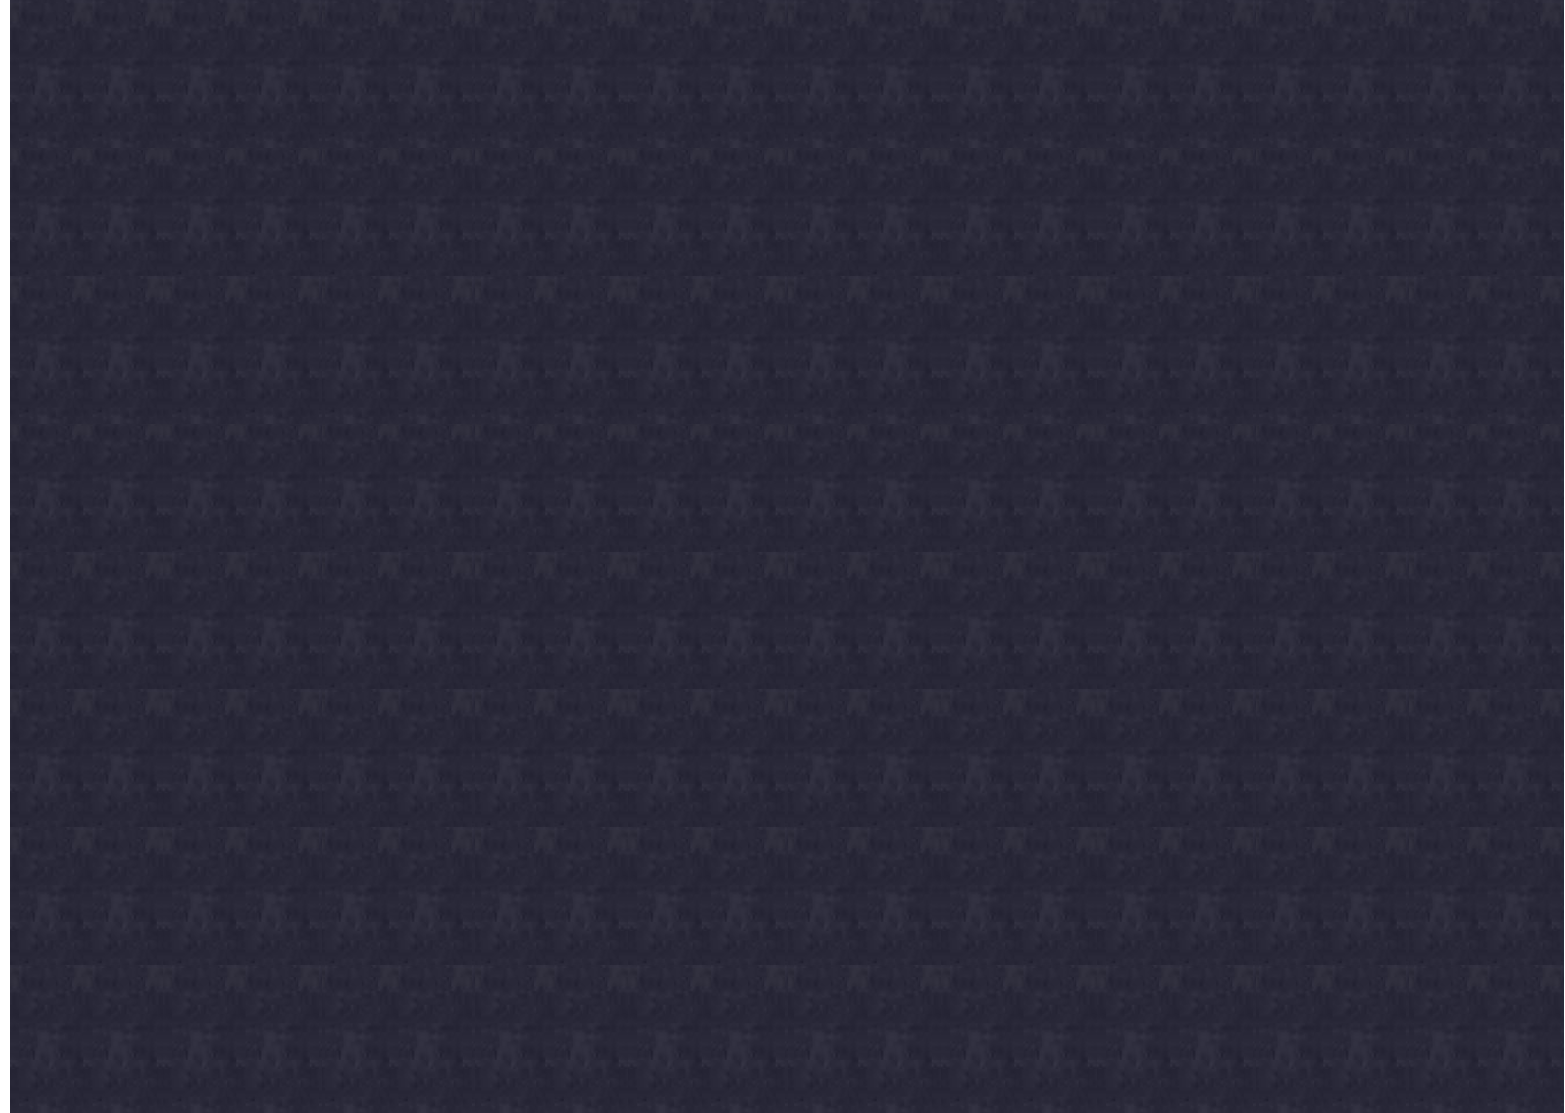
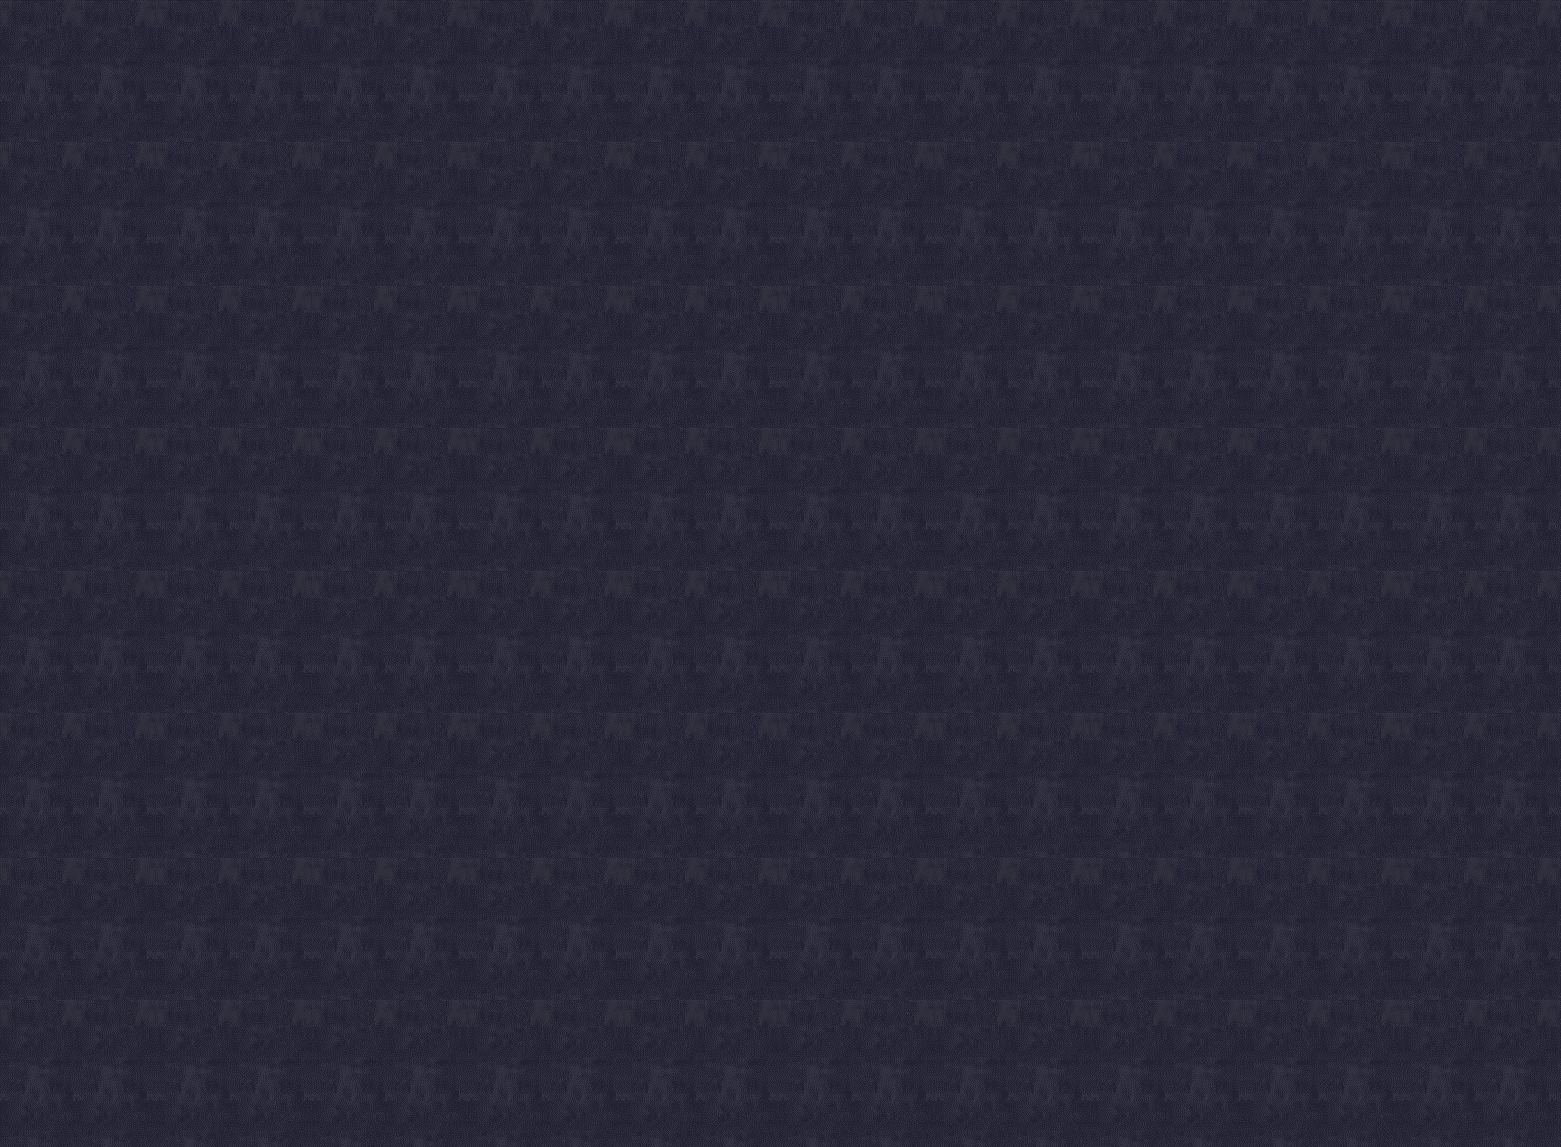
a bit change (not final view)

Changed region(s): [[0.0, 0.0, 0.0307, 1.0]]

diff --git a/C++_final/Label.hpp b/C++_final/Label.hpp
@@ -35,7 +35,7 @@ namespace Engine {
 		/// <param name="a">Color's alpha value.</param>
 		/// <param name="anchorX">The centerX of the object. (0, 0) means top-left, while (1, 0) means top-right.</param>
 		/// <param name="anchorY">The centerY of the object. (0, 1) means bottom-left, while (1, 1) means bottom-right.</param>
-		explicit Label(const std::string& text, const std::string& font, int fontSize, float x, float y, unsigned char r = 0, unsigned char g = 0, unsigned char b = 0, unsigned char a = 255, float anchorX = 0, float anchorY = 0);
+		explicit Label(std::string  text, const std::string& font, int fontSize, float x, float y, unsigned char r = 0, unsigned char g = 0, unsigned char b = 0, unsigned char a = 255, float anchorX = 0, float anchorY = 0);
 		/// <summary>
 		/// Draw text with loaded font.
 		/// </summary>
@@ -54,7 +54,7 @@ namespace Engine {
 		/// Change text color
 		/// </summary>
 		/// <returns>None.</returns>
-		void ChangeColor(const char r, const char g, const char b, const char a);
+		void ChangeColor(char r, char g, char b, char a);
 	};
 }
 

diff --git a/C++_final/Label.cpp b/C++_final/Label.cpp
@@ -1,3 +1,5 @@
+#include <utility>
+
 #include <string>
 #include <memory>
 #include <allegro5/allegro.h>
@@ -8,8 +10,8 @@
 #include "Label.hpp"
 
 namespace Engine {
-	Label::Label(const std::string& text, const std::string& font, int fontSize, float x, float y, unsigned char r, unsigned char g, unsigned char b, unsigned char a, float anchorX, float anchorY) :
-		IObject(x, y, 0, 0, anchorX, anchorY), font(Resources::GetInstance().GetFont(font, fontSize)), Text(text), Color(al_map_rgba(r, g, b, a)) {
+	Label::Label(std::string  text, const std::string& font, int fontSize, float x, float y, unsigned char r, unsigned char g, unsigned char b, unsigned char a, float anchorX, float anchorY) :
+		IObject(x, y, 0, 0, anchorX, anchorY), font(Resources::GetInstance().GetFont(font, fontSize)), Text(std::move(text)), Color(al_map_rgba(r, g, b, a)) {
 	}
 	void Label::Draw() const {
 		al_draw_text(font.get(), Color, Position.x - Anchor.x * GetTextWidth(), Position.y - Anchor.y * GetTextHeight(), 0, Text.c_str());

diff --git a/C++_final/Image.hpp b/C++_final/Image.hpp
@@ -23,7 +23,7 @@ namespace Engine {
 		/// <param name="h">Height of the image, 0 indicates original size.</param>
 		/// <param name="anchorX">The centerX of the object. (0, 0) means top-left, while (1, 0) means top-right.</param>
 		/// <param name="anchorY">The centerY of the object. (0, 1) means bottom-left, while (1, 1) means bottom-right.</param>
-		explicit Image(std::string img, float x, float y, float w = 0, float h = 0, float anchorX = 0, float anchorY = 0);
+		explicit Image(const std::string& img, float x, float y, float w = 0, float h = 0, float anchorX = 0, float anchorY = 0);
 		/// <summary>
 		/// Draw the loaded image.
 		/// </summary>

diff --git a/C++_final/Sprite.hpp b/C++_final/Sprite.hpp
@@ -36,7 +36,7 @@ namespace Engine {
 		/// <param name="g">Color tint green value.</param>
 		/// <param name="b">Color tint blue value.</param>
 		/// <param name="a">Color tint alpha value.</param>
-		explicit Sprite(std::string img, float x, float y, float w = 0, float h = 0, float anchorX = 0.5f, float anchorY = 0.5f,
+		explicit Sprite(const std::string& img, float x, float y, float w = 0, float h = 0, float anchorX = 0.5f, float anchorY = 0.5f,
 			float rotation = 0, float vx = 0, float vy = 0, unsigned char r = 255, unsigned char g = 255, unsigned char b = 255, unsigned char a = 255);
 		/// <summary>
 		/// Draw to window display.

diff --git a/C++_final/Sprite.cpp b/C++_final/Sprite.cpp
@@ -5,7 +5,7 @@
 #include "Sprite.hpp"
 
 namespace Engine {
-	Sprite::Sprite(std::string img, float x, float y, float w, float h, float anchorX, float anchorY,
+	Sprite::Sprite(const std::string& img, float x, float y, float w, float h, float anchorX, float anchorY,
 		float rotation, float vx, float vy, unsigned char r, unsigned char g, unsigned char b, unsigned char a) :
 		Image(img, x, y, w, h, anchorX, anchorY), Rotation(rotation), Velocity(Point(vx, vy)), Tint(al_map_rgba(r, g, b, a)) {
 	}
@@ -17,4 +17,4 @@ namespace Engine {
 		Position.x += Velocity.x * deltaTime;
 		Position.y += Velocity.y * deltaTime;
 	}
-};
+}

diff --git a/C++_final/MainScene.cpp b/C++_final/MainScene.cpp
@@ -1,4 +1,5 @@
 #include "MainScene.hpp"
+#include "Image.hpp"
 
 float MainScene::fieldX1 = 60.0f;
 float MainScene::fieldX2 = 540.0f;
@@ -6,6 +7,7 @@ float MainScene::fieldY1 = 40.0f;
 float MainScene::fieldY2 = 680.0f;
 
 void MainScene::Initialize() {
+    AddNewObject( new Engine::Image( "background/play.png", 0, 0, 1280, 720 ) );
 	this->fighter = new Fighter();
 	this->bulletMgr = new BulletManager();
 	this->enemyMgr = new EnemyManager();

diff --git a/C++_final/Image.cpp b/C++_final/Image.cpp
@@ -6,7 +6,7 @@
 #include "Image.hpp"
 
 namespace Engine {
-	Image::Image(std::string img, float x, float y, float w, float h, float anchorX, float anchorY) :
+	Image::Image(const std::string& img, float x, float y, float w, float h, float anchorX, float anchorY) :
 		IObject(x, y, w, h, anchorX, anchorY) {
 		if (Size.x == 0 && Size.y == 0) {
 			bmp = Resources::GetInstance().GetBitmap(img);

diff --git a/C++_final/Point.cpp b/C++_final/Point.cpp
@@ -1,4 +1,6 @@
 #include <cmath>
+
+#include <cmath>
 #include <iostream>
 #include "Point.hpp"
 
@@ -35,8 +37,8 @@ namespace Engine {
 		return x * x + y * y;
 	}
 	float Point::Magnitude() const {
-		return sqrt(MagnitudeSquared());
-	};
+		return std::sqrt(MagnitudeSquared());
+	}
 	Point operator*(const float& lhs, const Point& rhs) {
 		return rhs * lhs;
 	}

diff --git a/C++_final/IScene.hpp b/C++_final/IScene.hpp
@@ -27,7 +27,7 @@ namespace Engine {
 		/// <summary>
 		/// The default virtual destructor to support polymorphism destruction.
 		/// </summary>
-		virtual ~IScene() = default;
+		~IScene() override = default;
 		/// <summary>
 		/// Put all initialize code here instead of constructor to make change scene more simple.
 		/// </summary>

diff --git a/C++_final/Group.hpp b/C++_final/Group.hpp
@@ -55,7 +55,7 @@ namespace Engine {
 		/// <summary>
 		/// The default virtual destructor to support polymorphism destruction.
 		/// </summary>
-		virtual ~Group();
+		~Group() override;
 		/// <summary>
 		/// Remove all children (objects and controls).
 		/// </summary>
